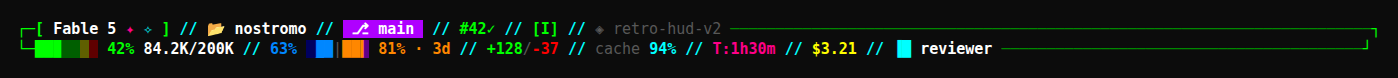
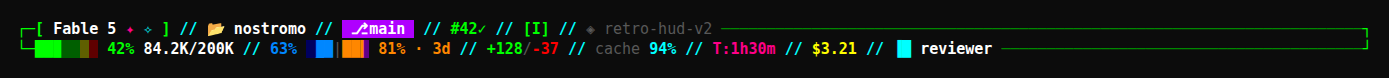
v2.1.0: cycle rate-limit labels between % and time-to-reset; fix screenshot grid alignment
Claude-Session: https://claude.ai/code/session_01UNbJ7Y326kgodbJqWfMtyD

Changed region(s): [[0.0619, 0.5128, 0.743, 0.7436], [0.031, 0.2564, 0.5263, 0.4872], [0.9597, 0.5128, 0.9906, 0.641]]

diff --git a/tests.py b/tests.py
@@ -87,9 +87,26 @@ class TestContent(unittest.TestCase):
             self.assertIn(expect, plain, "missing {!r} in:\n{}".format(expect, plain))
 
     def test_countdown_gated_below_threshold(self):
+        # NOW // 30 is even → percentage phase of the cycle
         plain = sl.strip_ansi(sl.render(copy.deepcopy(FULL), 220, NOW)[1])
-        self.assertNotIn("63% ·", plain)  # 63 < 75 → no countdown
-        self.assertIn("81% ·", plain)
+        self.assertIn("63%", plain)
+        self.assertNotIn("63% ·", plain)  # 63 < 75 → no combined label
+        self.assertIn("81% ·", plain)     # ≥75 → both, in every phase
+
+    def test_cycle_time_phase(self):
+        # NOW+30 // 30 is odd → time phase: 5h label becomes a countdown
+        plain = sl.strip_ansi(sl.render(copy.deepcopy(FULL), 220, NOW + 30)[1])
+        self.assertIn("1h59m", plain)     # 7200s reset − 30s elapsed
+        self.assertNotIn("63%", plain)
+        self.assertIn("81% ·", plain)     # urgent side still shows both
+
+    def test_rl_mode_env_pins_phase(self):
+        os.environ["RETRO_HUD_RL_MODE"] = "pct"
+        try:
+            plain = sl.strip_ansi(sl.render(copy.deepcopy(FULL), 220, NOW + 30)[1])
+            self.assertIn("63%", plain)   # pinned to pct despite time phase
+        finally:
+            del os.environ["RETRO_HUD_RL_MODE"]
 
     def test_no_rate_limits_hides_mirror(self):
         plain = sl.strip_ansi(sl.render(copy.deepcopy(MINIMAL), 160, NOW)[1])

diff --git a/statusline.py b/statusline.py
@@ -12,8 +12,10 @@ Flags:
 Env toggles:
     RETRO_HUD_FRAME=0            disable the right-edge frame fill
     RETRO_HUD_COUNTDOWN_PCT=75   rate-limit % at which reset countdowns appear
+    RETRO_HUD_RL_MODE=cycle      rate-limit labels: cycle (alternate % and
+                                 time-to-reset every 30s), pct, time, or both
 """
-__version__ = "2.0.0"
+__version__ = "2.1.0"
 
 import json
 import os
@@ -453,11 +455,18 @@ def render(data, cols, now):
             s += " " + NEON_WHT + t + R
         return s
 
+    rl_mode = os.environ.get("RETRO_HUD_RL_MODE", "cycle")
+    if rl_mode not in ("cycle", "pct", "time", "both"):
+        rl_mode = "cycle"
+    time_phase = rl_mode == "time" or (rl_mode == "cycle" and (now // 30) % 2 == 1)
+
     def rl_label(pct, left, reset, rich):
-        lbl = "{}%".format(clamp(pct, 0, 999))
-        if rich and reset and pct >= cd_pct:
-            lbl += " · " + fmt_countdown(left)
-        return lbl
+        pct_lbl = "{}%".format(clamp(pct, 0, 999))
+        if not reset:
+            return pct_lbl
+        if rich and (pct >= cd_pct or rl_mode == "both"):
+            return pct_lbl + " · " + fmt_countdown(left)
+        return fmt_countdown(left) if time_phase else pct_lbl
 
     def rl_seg(rich):
         return rate_mirror(rl5_pct, rl7_pct, rl_len,

diff --git a/CHANGELOG.md b/CHANGELOG.md
@@ -4,6 +4,18 @@ All notable changes to retro-hud are documented here.
 Versioning follows [Semantic Versioning](https://semver.org) with `v`-prefixed
 tags from v2.0.0 onward (earlier releases were tagged `1.0`–`1.3`).
 
+## [v2.1.0] — 2026-07-08
+
+### Added
+- Rate-limit labels now cycle between usage `%` and time-to-reset every
+  30 seconds (pairs with the installer's `refreshInterval`). Above the
+  countdown threshold both are shown together. Pin a style with
+  `RETRO_HUD_RL_MODE=pct|time|both` (default `cycle`).
+
+### Fixed
+- README screenshot: emoji are now pinned to the character grid in the
+  render pipeline, so the frame's right-edge corners align.
+
 ## [v2.0.0] — 2026-07-08
 
 ### Added

diff --git a/README.md b/README.md
@@ -10,7 +10,7 @@ A retro sci-fi HUD status line theme for [Claude Code](https://claude.com/claude
 - $\color{#00ffff}{\textsf{Neon cyan}}$ `//` separators
 - Zoned context gauge: $\color{#00ff00}{\textsf{green}}$ / $\color{#ff8700}{\textsf{amber}}$ / $\color{#ff0000}{\textsf{red}}$ zones tinted into the empty track like a redlined instrument, fractional-block fill with sub-character precision
 - Context tokens next to the gauge (`42% 84.2K/200K`), aware of 200K vs 1M context windows
-- Mirrored rate-limit gauges ($\color{#0087ff}{\textsf{blue}}$ 5h ← | → $\color{#af5fff}{\textsf{violet}}$ 7d) with reset countdowns once usage crosses 75% — hidden entirely on plans without rate limits
+- Mirrored rate-limit gauges ($\color{#0087ff}{\textsf{blue}}$ 5h ← | → $\color{#af5fff}{\textsf{violet}}$ 7d) whose labels alternate between usage % and time-to-reset every 30s; above 75% usage both are shown together — hidden entirely on plans without rate limits
 - Git branch badge with clickable repo link (OSC 8), read directly from `.git` — no subprocess, works in worktrees and on detached HEADs
 - PR badge (`#42✓`) colored by review state, hyperlinked to the PR
 - Effort-level dot in the model box (`·` `•` `●` `⬤` `✦`) and `✧` when extended thinking is on
@@ -89,7 +89,8 @@ rate-limit countdowns keep ticking.
 | Env var | Default | Effect |
 |---------|---------|--------|
 | `RETRO_HUD_FRAME` | `1` | Set `0` to disable the right-edge frame fill |
-| `RETRO_HUD_COUNTDOWN_PCT` | `75` | Rate-limit % at which reset countdowns appear |
+| `RETRO_HUD_COUNTDOWN_PCT` | `75` | Rate-limit % at which the combined `81% · 3d` label appears |
+| `RETRO_HUD_RL_MODE` | `cycle` | Rate-limit labels: `cycle` alternates % ↔ time-to-reset every 30s; `pct`, `time`, or `both` pin one style |
 
 Set them in the `env` block of `~/.claude/settings.json`.
 